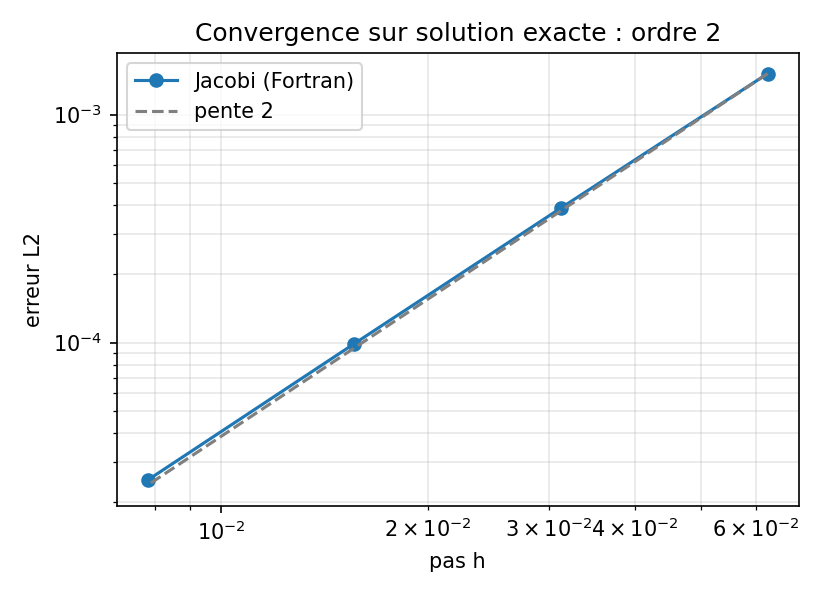
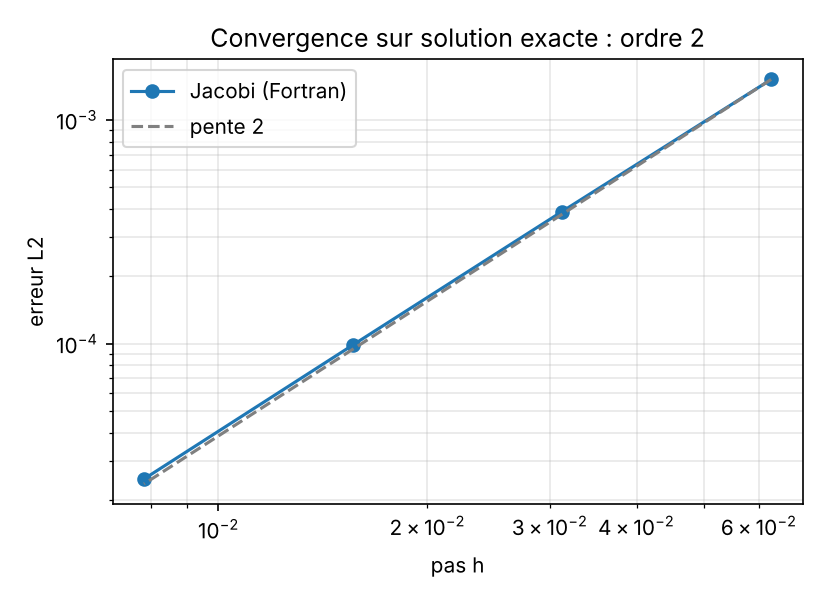
Résultats GPU sur NVIDIA T4 (OpenMP offload)

diff --git a/README.md b/README.md
@@ -1,6 +1,6 @@
 # Poisson 2D en Fortran — OpenMP et GPU
 
-Solveur de Jacobi en Fortran moderne pour l'équation de Poisson 2D, vérifié sur solution exacte, parallélisé avec OpenMP sur CPU, avec un portage GPU (OpenMP offload) en cours.
+Solveur de Jacobi en Fortran moderne pour l'équation de Poisson 2D, vérifié sur solution exacte, parallélisé avec OpenMP sur CPU et porté sur GPU NVIDIA avec OpenMP offload (jusqu'à ×29 en double précision et ×54 en simple précision sur un GPU T4).
 
 ## Problème
 
@@ -27,7 +27,7 @@ Jacobi est un calcul de stencil limité par la bande passante mémoire : chaque 
 src/precision.F90     # choix simple / double précision
 src/solveur.F90       # initialisation, Jacobi (CPU et GPU), erreur L2
 src/convergence.F90   # étude de convergence + test (échoue si l'ordre n'est pas 2)
-src/performance.F90   # temps par itération à nombre d'itérations fixe
+src/performance.F90   # temps par itération à nombre d'itérations fixe (CPU et GPU)
 scripts/mesures.sh    # campagne de mesures CPU
 scripts/courbes.py    # tracé des courbes
 colab_gpu.ipynb       # compilation et mesures GPU sur Google Colab
@@ -47,7 +47,7 @@ python3 scripts/courbes.py # courbes dans results/
 
 ## Résultats
 
-Mesures sur une machine Linux à 2 cœurs (Intel Xeon 2,8 GHz), gfortran 13.3, `-O3 -march=native`.
+Mesures CPU (sections 1 et 2) sur un Mac à puce Apple Silicon, dans une machine virtuelle Ubuntu 24.04 ARM (QEMU) à 4 cœurs, gfortran, `-O3 -march=native`.
 
 ### 1. Vérification sur solution exacte
 
@@ -62,34 +62,50 @@ L'erreur est divisée par 4 quand h est divisé par 2 : l'ordre 2 est retrouvé.
 
 ![Convergence](results/convergence.png)
 
-### 2. Performance sur CPU (500 itérations)
+### 2. Performance sur CPU (500 itérations, temps par itération)
 
 | précision | threads | n = 513 | n = 1 025 | n = 2 049 |
 |---|---|---|---|---|
-| double | 1 | 1,70 ms/it | 7,14 ms/it | 27,6 ms/it |
-| double | 2 | 0,84 ms/it | 3,76 ms/it | 15,0 ms/it |
-| simple | 1 | 1,44 ms/it | 6,04 ms/it | 24,8 ms/it |
-| simple | 2 | 0,77 ms/it | 3,17 ms/it | 11,8 ms/it |
+| double | 1 | 1,08 ms | 4,41 ms | 17,9 ms |
+| double | 4 | 0,37 ms | 2,34 ms | 11,1 ms |
+| simple | 1 | 1,13 ms | 4,29 ms | 17,3 ms |
+| simple | 4 | 0,45 ms | 2,83 ms | 11,2 ms |
 
-- OpenMP sur 2 cœurs : accélération de 1,8 à 2,0 selon la taille.
-- Simple précision : de 1,1 à 1,3 fois plus rapide que la double. Les réels font 4 octets au lieu de 8, donc moins de données à transférer depuis la mémoire, cohérent avec un calcul limité par la bande passante.
+- **OpenMP sur 4 cœurs : ×2,9 pour n = 513, mais seulement ×1,9 pour n = 1 025 et ×1,6 pour n = 2 049.** Les trois tableaux (u, unew, f) occupent environ 6 Mo pour n = 513 et 100 Mo pour n = 2 049 : sur les grandes grilles, ils doivent être relus en mémoire vive à chaque itération, et les 4 cœurs se partagent la même bande passante mémoire. C'est le comportement attendu d'un calcul limité par la mémoire.
+- **Simple précision : pas de gain mesuré sur cette machine** (temps équivalents, voire plus lents sur 4 threads pour n = 513). À vérifier sur une machine physique et sur GPU, où la réduction des transferts mémoire devrait davantage compter.
 
 ![Performance](results/performance.png)
 
-### 3. GPU — en cours
+### 3. Portage GPU (OpenMP offload)
 
-Le portage GPU est écrit avec OpenMP offload (`make gpu`, compilateur `nvfortran` du NVIDIA HPC SDK) :
+Exécuté sur Google Colab avec un GPU **NVIDIA Tesla T4**, compilateur `nvfortran` 26.9 (NVIDIA HPC SDK), via le notebook `colab_gpu.ipynb`.
 
 - `!$omp target teams distribute parallel do collapse(2)` sur les boucles de calcul ;
-- une région `!$omp target data` garde `u`, `f` et `unew` sur le GPU pendant toutes les itérations. Sans elle, chaque itération recopierait les tableaux entre CPU et GPU, et le transfert coûterait plus cher que le calcul.
+- une région `!$omp target data` garde `u`, `f` et `unew` sur le GPU pendant toutes les itérations : sans elle, chaque itération recopierait les tableaux entre CPU et GPU.
 
-Cette version n'a pas encore été exécutée sur GPU : les résultats seront ajoutés après les tests. Le notebook `colab_gpu.ipynb` installe le compilateur, vérifie l'ordre 2 sur GPU (`make gpu_test`) et compare CPU et GPU sur Google Colab (GPU T4).
+**Vérification :** l'étude de convergence exécutée sur GPU (`make gpu_test`) donne exactement les mêmes erreurs que sur CPU (ordre 1,96 → 1,99). Les lancements de noyaux sont visibles avec `NVCOMPILER_ACC_NOTIFY=1`.
+
+**Performance** (500 itérations, temps par itération ; référence : CPU de la même machine Colab, 2 threads OpenMP) :
+
+| version | n = 513 | n = 1 025 | n = 2 049 | n = 4 097 |
+|---|---|---|---|---|
+| CPU double, 2 threads | 1,87 ms | 7,61 ms | 38,4 ms | 139 ms |
+| CPU simple, 2 threads | 1,74 ms | 6,84 ms | 31,3 ms | 127 ms |
+| GPU double | 0,70 ms (×2,7) | 0,76 ms (×10) | 1,45 ms (×26) | 4,77 ms (×29) |
+| GPU simple | 0,39 ms (×4,8) | 0,48 ms (×16) | 0,89 ms (×43) | 2,56 ms (×54) |
+
+- **Le GPU n'est rentable que sur les grandes grilles.** Pour n = 513, il n'y a pas assez de points pour occuper le GPU, et le temps est dominé par des coûts fixes : lancement de trois noyaux et rapatriement du critère d'arrêt à chaque itération, initialisation du GPU incluse dans la mesure.
+- **Sur GPU, la simple précision est 1,9 fois plus rapide que la double pour n = 4 097**, proche du facteur 2 attendu : Jacobi est limité par la bande passante mémoire, et un réel simple fait 4 octets au lieu de 8. Sur le CPU de Colab, le gain n'est que de 1,1.
+- Débit mémoire estimé pour n = 4 097 : environ 130 à 140 Go/s (environ 40 octets lus ou écrits par point et par itération), soit un peu moins de la moitié des 320 Go/s théoriques du T4.
+
+![CPU vs GPU](results/gpu.png)
 
 ## Limites et suites
 
 - Jacobi converge lentement (O(n²) itérations) : gradient conjugué ou multigrille ensuite.
-- Mesures sur 2 cœurs seulement : scalabilité à étendre sur un cluster.
+- Mesures dans une machine virtuelle à 4 cœurs : scalabilité à confirmer sur un cluster.
 - Simple précision : mesurer aussi la perte de précision sur l'erreur finale.
+- GPU : supprimer la boucle de recopie `u = unew` (échange de pointeurs) pour réduire le trafic mémoire, ne calculer le critère d'arrêt que toutes les k itérations, et exclure l'initialisation du GPU de la mesure.
 
 ## Auteur
 
